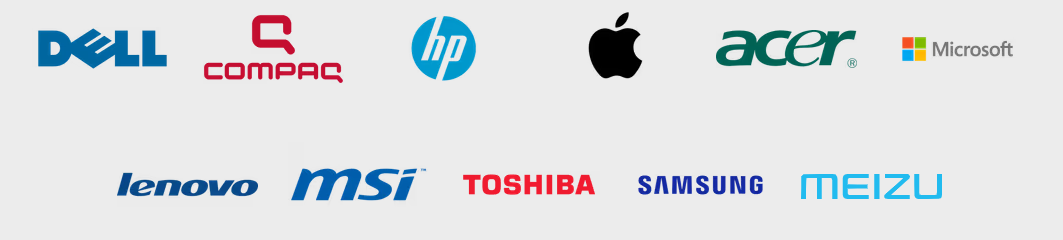
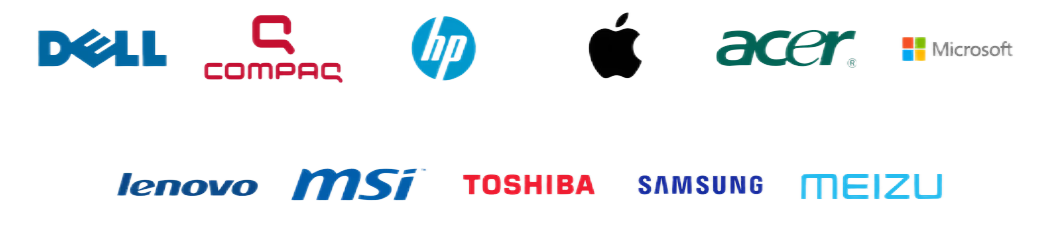
back fix

diff --git a/src/components/FirstAbout/FirstAbout.css b/src/components/FirstAbout/FirstAbout.css
@@ -48,7 +48,7 @@
     height: 100%;
     width: 50%;
     margin-left: 0;
-    background: #ECECEC;
+    background: #FFF;
 
 }
 .firstAbout__list{
@@ -88,7 +88,7 @@
     margin-left: 55px;
     width: 625px;
     height: 147px;
-    background: #ECECEC;
+    background: #FFF;
     border-radius: 15px;
     box-shadow: 0px 4px 25px 0px #00000059;
 
@@ -153,7 +153,7 @@
     position: absolute;
     justify-content: space-between;
     flex-direction: row;
-    top:480px;
+    top:500px;
     left:0;
     width: 100%;
     max-height: 218px;

diff --git a/src/components/Believe/Believe.css b/src/components/Believe/Believe.css
@@ -3,7 +3,7 @@
     flex-direction: column;
     width: 100%;
     height: 1800px;
-    background: #ECECEC;
+    background: #FFF;
     position: relative;
 }
 .believe{
@@ -21,7 +21,7 @@
     height: 446px;
     flex-direction: column;
     justify-content: space-between;
-    background: #ECECEC;
+    background: #FFF;
 }
 .believe__title{
     display: flex;
@@ -89,7 +89,7 @@
     display: flex;
     width: 100%;
     height: 649px;
-    background: #ECECEC;
+    background: #FFF;
     flex-direction: column;
 }
 .price__container{

diff --git a/src/components/Achievements/Achievements.css b/src/components/Achievements/Achievements.css
@@ -103,7 +103,8 @@
     flex-direction: column;
     align-items: center;
     width: 100%;
-    background: #ECECEC;
+    background: #FFF;
+
 }
 .achievements__title{
     width: 742px;
@@ -279,7 +280,7 @@
     border-radius: 39px;
     padding: 0 0 0 29px;
     margin: 14px 16px 30px 24px;
-    background: #ECECEC;
+    background: #FFF;
     color: #000;
 }
 .achievements__form-button{

diff --git a/src/components/Contacts/Contacts.css b/src/components/Contacts/Contacts.css
@@ -4,7 +4,7 @@
     align-items: center;
     justify-content: center;
     width: 100%;
-    background: #ECECEC;
+    background: #FFF;
     border-radius: 0 0 95px 95px;
 
 }
@@ -41,7 +41,7 @@
     margin-left: 55px;
     width: 752px;
     height: 158px;
-    background: #ECECEC;
+    background: #FFF;
     border-radius: 15px;
     box-shadow: 0px 4px 25px 0px #00000059;
 

diff --git a/src/components/Problems/Problems.css b/src/components/Problems/Problems.css
@@ -2,7 +2,7 @@
     display: flex;
     width: 100%;
     height: 1700px;
-    background: #ECECEC;
+    background: #FFF;
     flex-direction: column;
 }
 
@@ -132,7 +132,7 @@
     justify-content: center;
     width: 752px;
     height: 186px;
-    background: #ECECEC;
+    background: #FFF;
     border-radius: 15px;
     box-shadow: 0px 4px 25px 0px #00000059;
 

diff --git a/src/components/ContactsPage/ContactsPage.css b/src/components/ContactsPage/ContactsPage.css
@@ -83,7 +83,7 @@ display: flex;
     margin-left: 55px;
     width: 752px;
     height: 158px;
-    background: #ECECEC;
+    background: #FFF;
     border-radius: 15px;
     box-shadow: 0px 4px 25px 0px #00000059;
 

diff --git a/src/components/First/First.css b/src/components/First/First.css
@@ -63,7 +63,7 @@
     margin-left: 55px;
     width: 625px;
     height: 147px;
-    background: #ECECEC;
+    background: #FFF;
     border-radius: 15px;
     box-shadow: 0px 4px 25px 0px #00000059;
 

diff --git a/src/components/Companies/Companies.css b/src/components/Companies/Companies.css
@@ -4,7 +4,7 @@
     align-items: center;
     width: 100%;
     height: 1000px;
-    background: #ECECEC;
+    background: #FFF;
 }
 .companies__title{
     margin: 56px auto 20px auto;

diff --git a/src/components/Skolkovo/Skolkovo.css b/src/components/Skolkovo/Skolkovo.css
@@ -2,7 +2,7 @@
     display: flex;
     width: 100%;
     height: 711px;
-    background: #ECECEC;
+    background: #FFF;
     flex-direction: column;
 }
 .skolkovo__container{

diff --git a/src/components/Working/Working.css b/src/components/Working/Working.css
@@ -5,7 +5,7 @@
     justify-content: center;
     width: 100%;
     height: 616px;
-    background: #ECECEC;
+    background: #FFF;
 }
 .working__container{
     width: 100%;

diff --git a/src/components/NavBar/NavBar.css b/src/components/NavBar/NavBar.css
@@ -1,7 +1,7 @@
 .navbar{
     margin: 0;
     width: 100%;
-    background: #EAEAEA;
+    background: #FFF;
     height: 60px;
     font-size: 15px;
     font-weight: 800;
